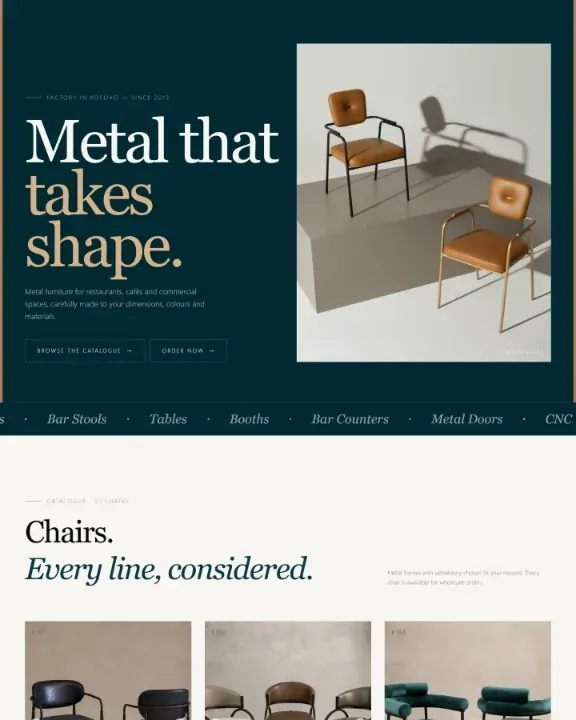
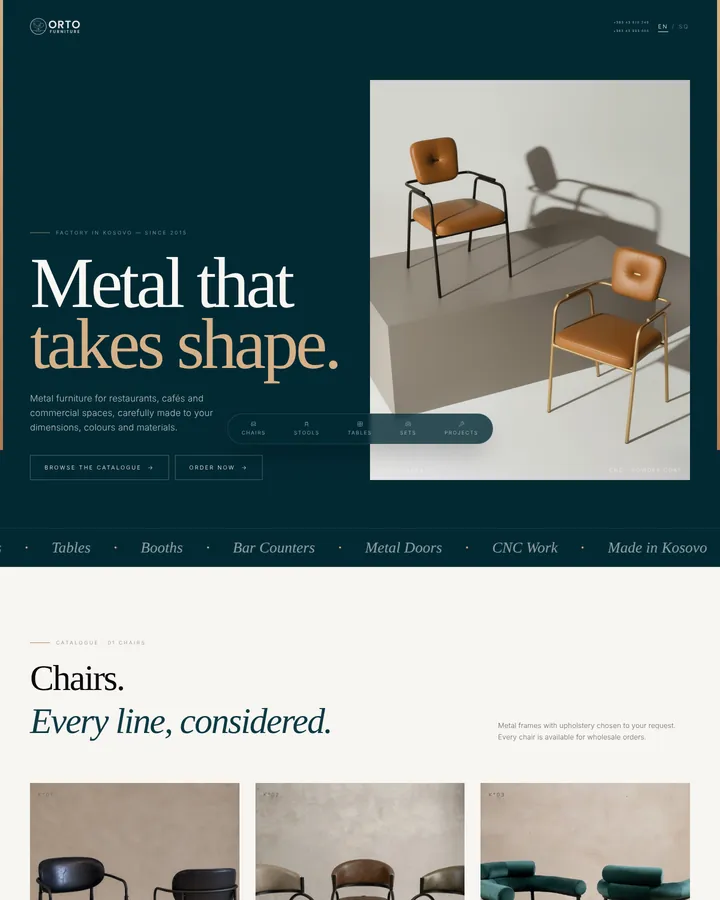
Orto case study: fresh screenshots of the live site, a real phone screen in the mockup and sharper desktop shots
Claude-Session: https://claude.ai/code/session_01YRPvNLTG7f1eH4pnG5D16R

diff --git a/new/en/index.html b/new/en/index.html
@@ -232,7 +232,7 @@
           <div class="stack" style="gap:10px;max-width:480px"><span class="case-logo on-dark"><img src="../assets/img/logos/orto-furniture.webp" alt="Orto Furniture" loading="lazy"></span><span class="label">Website · Orto Furniture</span><h3 class="h3">An online catalog built for the phone.</h3><p>A “pill” menu at the bottom of the screen, right where the thumb reaches. Customers browse products and contact you without leaving the page.</p></div>
           <span class="btn-row" style="gap:10px"><a class="btn btn-white" href="rastet/orto-furniture/">Read the case →</a><a class="btn btn-ghost" style="background:rgba(255,255,255,.12);color:#fff;border-color:rgba(255,255,255,.25)" href="https://ortofurniture-ks.com/" target="_blank" rel="noopener">View the website ↗</a></span>
         </div>
-        <div class="browser" style="background:#1B2126"><div class="browser-bar"><i></i><i></i><i></i><span>ortofurniture-ks.com</span></div><div class="site-shot"><img src="../assets/img/work/orto-furniture/site.webp" alt="The Orto Furniture website" width="576" height="2000" loading="lazy" decoding="async"></div></div>
+        <div class="browser" style="background:#1B2126"><div class="browser-bar"><i></i><i></i><i></i><span>ortofurniture-ks.com</span></div><div class="site-shot"><img src="../assets/img/work/orto-furniture/site.webp" alt="The Orto Furniture website" width="864" height="3360" loading="lazy" decoding="async"></div></div>
       </article>
       <div class="side stack" style="gap:20px">
         <article class="glass card stack" style="flex:1;gap:12px"><span class="case-logo"><img src="../assets/img/logos/eliesa-krasniqi-clinic.webp" alt="Eliesa Krasniqi Clinic" loading="lazy"></span><span class="label">Physiotherapy · Eliesa Krasniqi Clinic</span><h3 class="h4" style="font-size:28px">They started on a fixed price. The results convinced them to ask for the 10%.</h3><p class="muted">Personal brand, educational videos and photos in the clinic.</p><a href="rastet/eliesa-krasniqi-clinic/" style="margin-top:auto;font-weight:700">Read the case →</a></article>

diff --git a/new/index.html b/new/index.html
@@ -232,7 +232,7 @@
           <div class="stack" style="gap:10px;max-width:480px"><span class="case-logo on-dark"><img src="assets/img/logos/orto-furniture.webp" alt="Orto Furniture" loading="lazy"></span><span class="label">Website · Orto Furniture</span><h3 class="h3">Katalog online i ndërtuar për telefonin.</h3><p>Menyja si “pill” në fund të ekranit, aty ku arrin gishti. Klienti shfleton produktet dhe të kontakton pa e mbyllur faqen.</p></div>
           <span class="btn-row" style="gap:10px"><a class="btn btn-white" href="rastet/orto-furniture/">Lexo rastin →</a><a class="btn btn-ghost" style="background:rgba(255,255,255,.12);color:#fff;border-color:rgba(255,255,255,.25)" href="https://ortofurniture-ks.com/" target="_blank" rel="noopener">Shiko website-in ↗</a></span>
         </div>
-        <div class="browser" style="background:#1B2126"><div class="browser-bar"><i></i><i></i><i></i><span>ortofurniture-ks.com</span></div><div class="site-shot"><img src="assets/img/work/orto-furniture/site.webp" alt="Website-i i Orto Furniture" width="576" height="2000" loading="lazy" decoding="async"></div></div>
+        <div class="browser" style="background:#1B2126"><div class="browser-bar"><i></i><i></i><i></i><span>ortofurniture-ks.com</span></div><div class="site-shot"><img src="assets/img/work/orto-furniture/site.webp" alt="Website-i i Orto Furniture" width="864" height="3360" loading="lazy" decoding="async"></div></div>
       </article>
       <div class="side stack" style="gap:20px">
         <article class="glass card stack" style="flex:1;gap:12px"><span class="case-logo"><img src="assets/img/logos/eliesa-krasniqi-clinic.webp" alt="Eliesa Krasniqi Clinic" loading="lazy"></span><span class="label">Fizioterapi · Eliesa Krasniqi Clinic</span><h3 class="h4" style="font-size:28px">Filluan me çmim fiks. Rezultatet i bindën të kërkonin 10%-shin.</h3><p class="muted">Brand personal, video edukative dhe foto në klinikë.</p><a href="rastet/eliesa-krasniqi-clinic/" style="margin-top:auto;font-weight:700">Lexo rastin →</a></article>

diff --git a/new/rastet/orto-furniture/index.html b/new/rastet/orto-furniture/index.html
@@ -66,8 +66,7 @@
       </div>
       <div class="side" style="display:flex;justify-content:center">
         <div class="mock-phone reveal">
-          <img class="site-scroll" src="../../assets/img/work/orto-furniture/1.webp" alt="Faqja kryesore e Orto Furniture në telefon" loading="lazy" decoding="async">
-          <div class="mock-pill"><span>Kryefaqja</span><span>Katalogu</span><span>Kontakt</span></div>
+          <img class="site-scroll" src="../../assets/img/work/orto-furniture/phone.webp" width="560" height="1200" alt="Faqja kryesore e Orto Furniture në telefon" loading="lazy" decoding="async">
           <span class="chip chip-brand" style="position:absolute;right:6px;bottom:84px;font-size:11px;padding:5px 9px">Menyja “pill”</span>
         </div>
       </div>
@@ -100,7 +99,7 @@
       <li>✓ Faqja gati në rreth 0,7 sekonda në testin tonë.</li>
     </ul>
   </div>
-  <div class="browser reveal" style="flex:999 1 560px;min-width:0"><div class="browser-bar"><i></i><i></i><i></i><span>ortofurniture-ks.com</span></div><div class="site-shot" style="height:380px"><img src="../../assets/img/work/orto-furniture/site.webp" alt="Website-i i Orto Furniture" width="576" height="2000" loading="lazy" decoding="async"></div></div>
+  <div class="browser reveal" style="flex:999 1 560px;min-width:0"><div class="browser-bar"><i></i><i></i><i></i><span>ortofurniture-ks.com</span></div><div class="site-shot" style="height:380px"><img src="../../assets/img/work/orto-furniture/site.webp" alt="Website-i i Orto Furniture" width="864" height="3360" loading="lazy" decoding="async"></div></div>
 </div></section>
 <section class="section" id="apliko">
   <div class="container">

diff --git a/new/en/rastet/orto-furniture/index.html b/new/en/rastet/orto-furniture/index.html
@@ -66,8 +66,7 @@
       </div>
       <div class="side" style="display:flex;justify-content:center">
         <div class="mock-phone reveal">
-          <img class="site-scroll" src="../../../assets/img/work/orto-furniture/1.webp" alt="Orto Furniture homepage on a phone" loading="lazy" decoding="async">
-          <div class="mock-pill"><span>Home</span><span>Catalog</span><span>Contact</span></div>
+          <img class="site-scroll" src="../../../assets/img/work/orto-furniture/phone.webp" width="560" height="1200" alt="Orto Furniture homepage on a phone" loading="lazy" decoding="async">
           <span class="chip chip-brand" style="position:absolute;right:6px;bottom:84px;font-size:11px;padding:5px 9px">The “pill” menu</span>
         </div>
       </div>
@@ -100,7 +99,7 @@
       <li>✓ Page ready in about 0.7 seconds in our test.</li>
     </ul>
   </div>
-  <div class="browser reveal" style="flex:999 1 560px;min-width:0"><div class="browser-bar"><i></i><i></i><i></i><span>ortofurniture-ks.com</span></div><div class="site-shot" style="height:380px"><img src="../../../assets/img/work/orto-furniture/site.webp" alt="The Orto Furniture website" width="576" height="2000" loading="lazy" decoding="async"></div></div>
+  <div class="browser reveal" style="flex:999 1 560px;min-width:0"><div class="browser-bar"><i></i><i></i><i></i><span>ortofurniture-ks.com</span></div><div class="site-shot" style="height:380px"><img src="../../../assets/img/work/orto-furniture/site.webp" alt="The Orto Furniture website" width="864" height="3360" loading="lazy" decoding="async"></div></div>
 </div></section>
 <section class="section" id="apliko">
   <div class="container">
